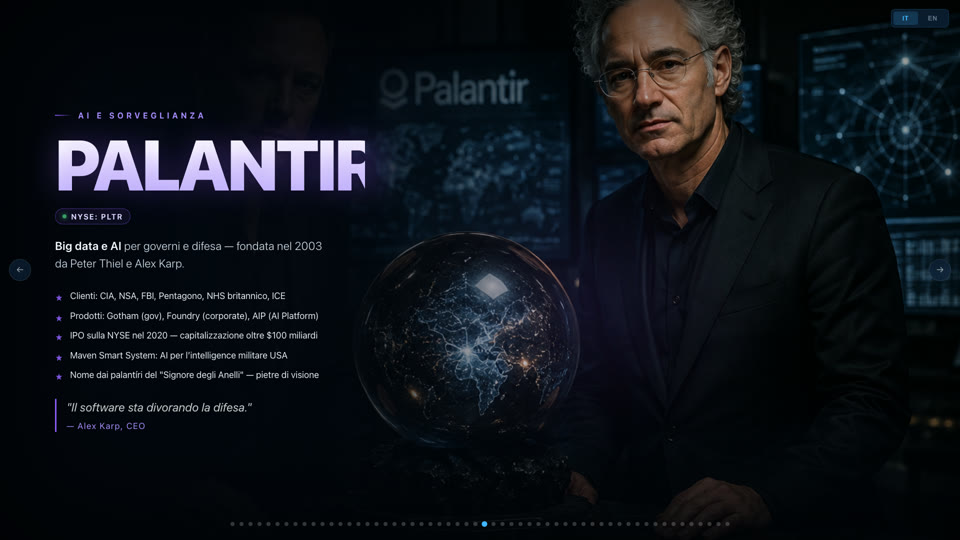
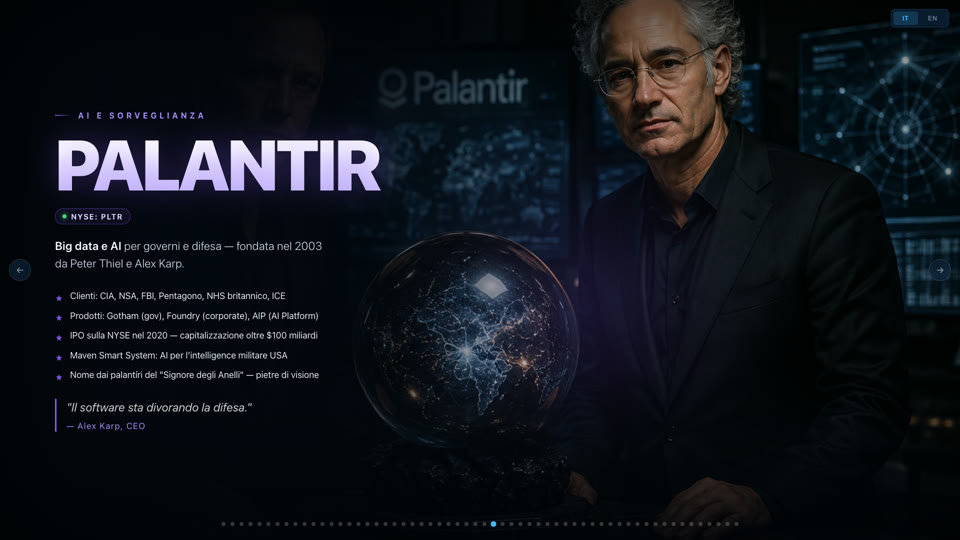
fix: titolo PALANTIR non più tagliato a destra

diff --git a/palantir.html b/palantir.html
@@ -102,6 +102,9 @@
       line-height: 0.9;
       margin: 0 0 clamp(18px, 2.4vh, 30px);
       text-transform: uppercase;
+      /* il gradiente (background-clip:text) copre solo il box: senza questo
+         la parola più larga della colonna veniva tagliata a destra */
+      width: max-content; white-space: nowrap; padding-right: 0.06em;
       background: linear-gradient(180deg, #ffffff 30%, #c4b5fd 100%);
       -webkit-background-clip: text; background-clip: text;
       -webkit-text-fill-color: transparent; color: transparent;
